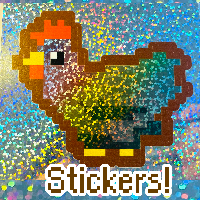
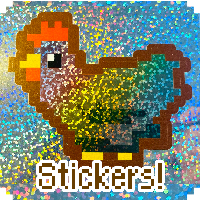
update sticker link

diff --git a/hosting/peckin-pixels/socials.html b/hosting/peckin-pixels/socials.html
@@ -42,6 +42,10 @@
             background-image: url('img/facebook_icon.png');
         }
 
+        #stickers:hover, #stickers2 {
+            background-image: url('img/stickers2--hover.jpg');
+        }
+
         #itch:hover, #itch2 {
             background-image: url('img/itchio_icon--hover.png');
         }
@@ -72,12 +76,13 @@
     <body>
         <div id='socials'>
             <div id='container'>
-                <a class='social' id='stickers' target="_blank" rel="noopener noreferrer nofollow" href='https://wavingwalrus.itch.io/peckin-pixels'> </a>
+                <a class='social' id='stickers' target="_blank" rel="noopener noreferrer nofollow" href='https://ko-fi.com/s/c76bd9f1c2'> </a>
                 <a class='social' id='itch' target="_blank" rel="noopener noreferrer nofollow" href='https://wavingwalrus.itch.io/peckin-pixels'> </a>
                 <a class='social' id='twitter' target="_blank" rel="noopener noreferrer nofollow" href='https://twitter.com/wavingwalrus'></a>
                 <a class='social' id='facebook' target="_blank" rel="noopener noreferrer nofollow" href='https://www.facebook.com/wavingwalrus'></a>
                 <!-- preload hover -->
                 <div class='hidden'>
+                    <span id='stickers2'></span>
                     <span id='itch2'></span>
                     <span id='twitter2'></span>
                     <span id='facebook2'></span>
